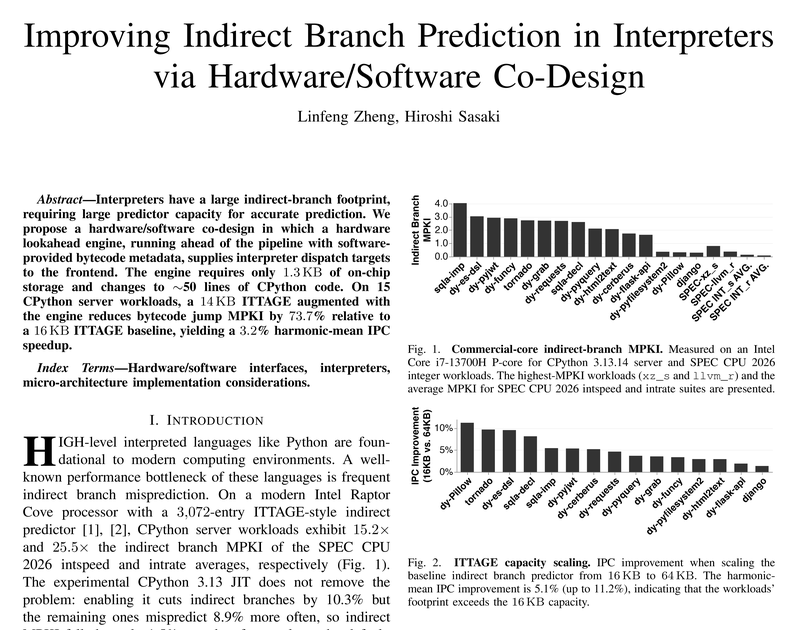
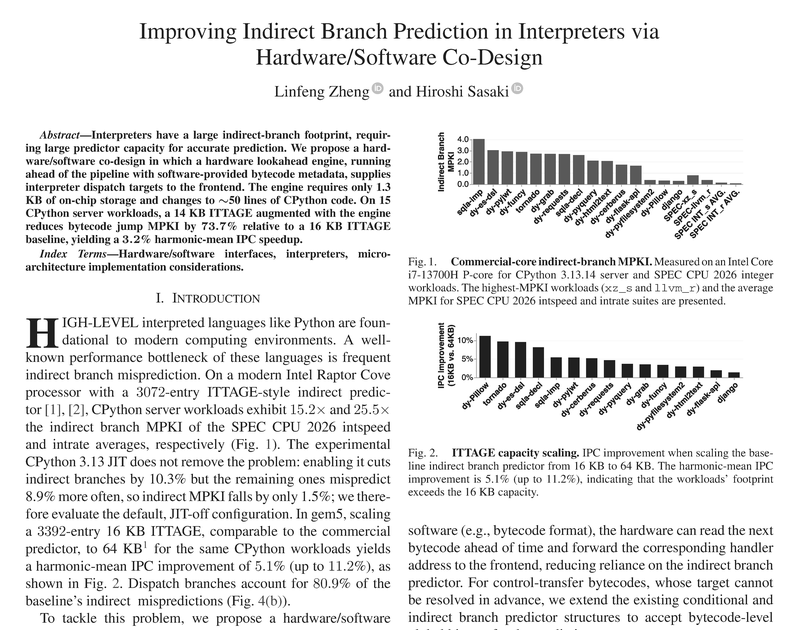
Use the CAL paper's issue version
The paper is now in IEEE CAL vol. 25, no. 2, pp. 419-422. The BibTeX is IEEE Xplore's new "Cite
This" entry, still without its keywords; the DOI is unchanged. The paper.pdf window on the desktop
home shows page 1 of the published PDF, cropped the same way as before.

diff --git a/src/data/shared.ts b/src/data/shared.ts
@@ -49,16 +49,15 @@ export const CAL_PAPER: Omit<Publication, 'status'> = {
   title: 'Improving Indirect Branch Prediction in Interpreters via Hardware/Software Co-Design',
   authors: [{ name: 'Linfeng Zheng', me: true }, { name: 'Hiroshi Sasaki' }],
   venue: 'IEEE Computer Architecture Letters (CAL), 2026',
-  // IEEE Xplore's "Cite This" entry without its keywords. The paper is in Early Access, so volume and
-  // number are empty and the pages may change; copy the entry again once the paper is in an issue.
+  // IEEE Xplore's "Cite This" entry for the issue version (vol. 25, no. 2), without its keywords.
   bibtex: `@ARTICLE{11714309,
   author={Zheng, Linfeng and Sasaki, Hiroshi},
   journal={IEEE Computer Architecture Letters},
   title={Improving Indirect Branch Prediction in Interpreters via Hardware/Software Co-Design},
   year={2026},
-  volume={},
-  number={},
-  pages={1-4},
+  volume={25},
+  number={2},
+  pages={419-422},
   doi={10.1109/LCA.2026.3738406}}`,
   doi: '10.1109/LCA.2026.3738406',
 };
